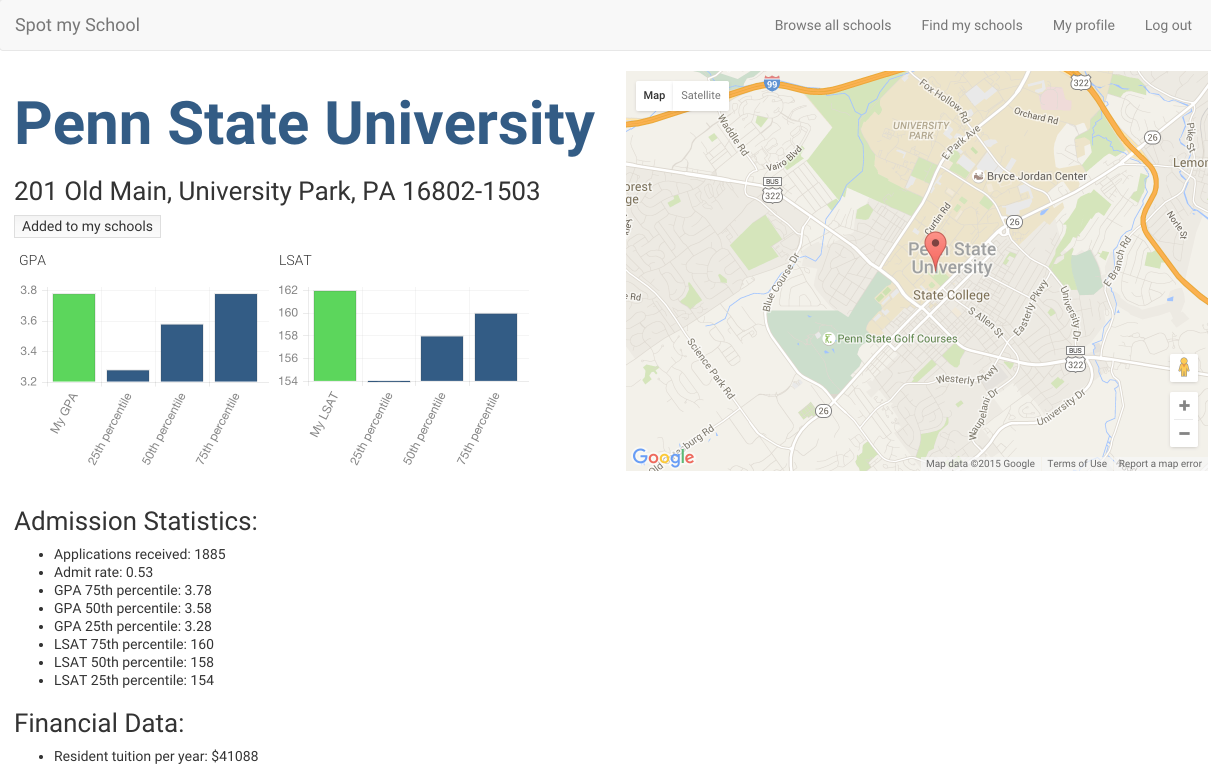
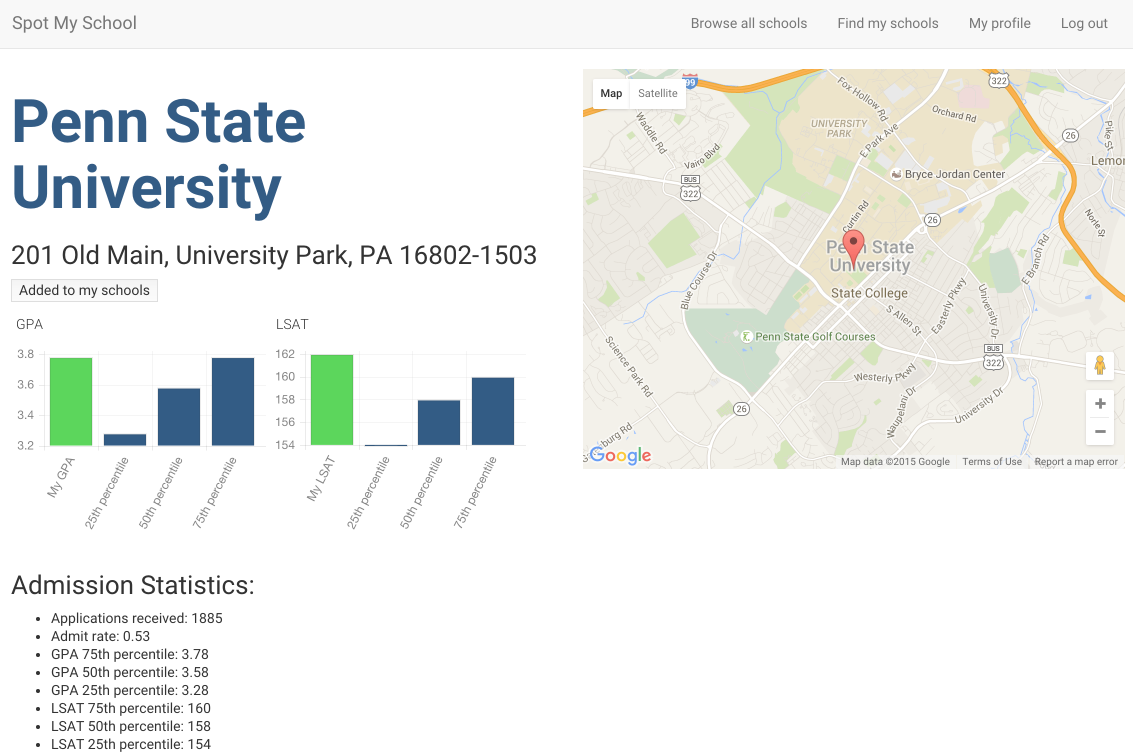
Screenshots replaced

diff --git a/templates/base.html b/templates/base.html
@@ -49,7 +49,7 @@
                     <span class="icon-bar"></span>
                     <span class="icon-bar"></span>
                 </button>
-                <a class="navbar-brand" href="/">Spot my School</a>
+                <a class="navbar-brand" href="/">Spot My School</a>
             </div>
             <div id="navbar" class="navbar-collapse collapse">
                 <ul class="nav navbar-nav navbar-right">

diff --git a/templates/index.html b/templates/index.html
@@ -7,7 +7,7 @@
     <div class="row">
         <div class="col-xs-12 col-md-6 col-md-offset-3 col-lg-6 col-lg-offset-3 opaque-white">
             <div id="site-title">
-                <h1>Spot my School</h1>
+                <h1>Spot My School</h1>
                 <h4>Find law schools that match your stats</h4>
                 <div id="main-links">
                     {% if "user_id" in session %}

diff --git a/README.md b/README.md
@@ -12,7 +12,7 @@ Spot my School makes it easy for aspiring law students to identify the perfect l
 
 #### Introduction
 
-Spot my School analyzes admission data from the American Bar Association’s 2013 questionnaire, compares it to each user’s GPA and LSAT score, dynamically generates individualized lists of recommended law schools, and categorizes the results by likelihood of admission. 
+Spot my School analyzes admission data from [the American Bar Association’s 2013 questionnaire](http://www.americanbar.org/groups/legal_education/resources/statistics.html), compares it to each user’s GPA and LSAT score, dynamically generates individualized lists of recommended law schools, and categorizes the results by likelihood of admission. 
 
 ![Spot my School homepage](/static/images/screenshots/spot_my_school_screenshot.png)
 
@@ -39,12 +39,12 @@ Users can easily add chosen law schools to a personalized list, accessed via the
 * [Flask](http://flask.pocoo.org/) - web framework that serves pages dynamically according to user actions.
 * [Jinja](http://jinja.pocoo.org/docs/dev/) - allows use of variables to create webpages from database data.
 * Javascript - front-end dynamic web design.
-* [JQuery](https://jquery.com/) - allows for streamlined, easily readable front-end code.
+* [JQuery](https://jquery.com/) - JavaScript library allowing simplified, easily readable DOM manipulation and event handlers.
 * AJAX/JSON - used for buttons throughout app, letting users quickly add or change their information in the database without interrupting their experience.
 * [SQLite](https://www.sqlite.org/) - database containing complex law school data from ABA 2013 questionnaire.
 * [SQLAlchemy](http://www.sqlalchemy.org/) - streamlines database queries in Python codebase.
 * HTML5/CSS - displays and styles webpages.
-* [Bootstrap](http://getbootstrap.com/2.3.2/) - allows responsive website design.
+* [Bootstrap](http://getbootstrap.com/2.3.2/) - UI framework that allows responsive website design.
 * [Google Maps](https://developers.google.com/maps/) - displays maps on law school profile pages and user profiles.
 * [Chart.js](http://www.chartjs.org/) - displays charts dynamically comparing user stats to school stats and noting number of student school picks from each admission chance category.
 * [GeoPy](https://pypi.python.org/pypi/geopy) - back-end implementation generates latitude and longitude points on seeding of database, taking load time off front end and ensuring API limits are respected.
